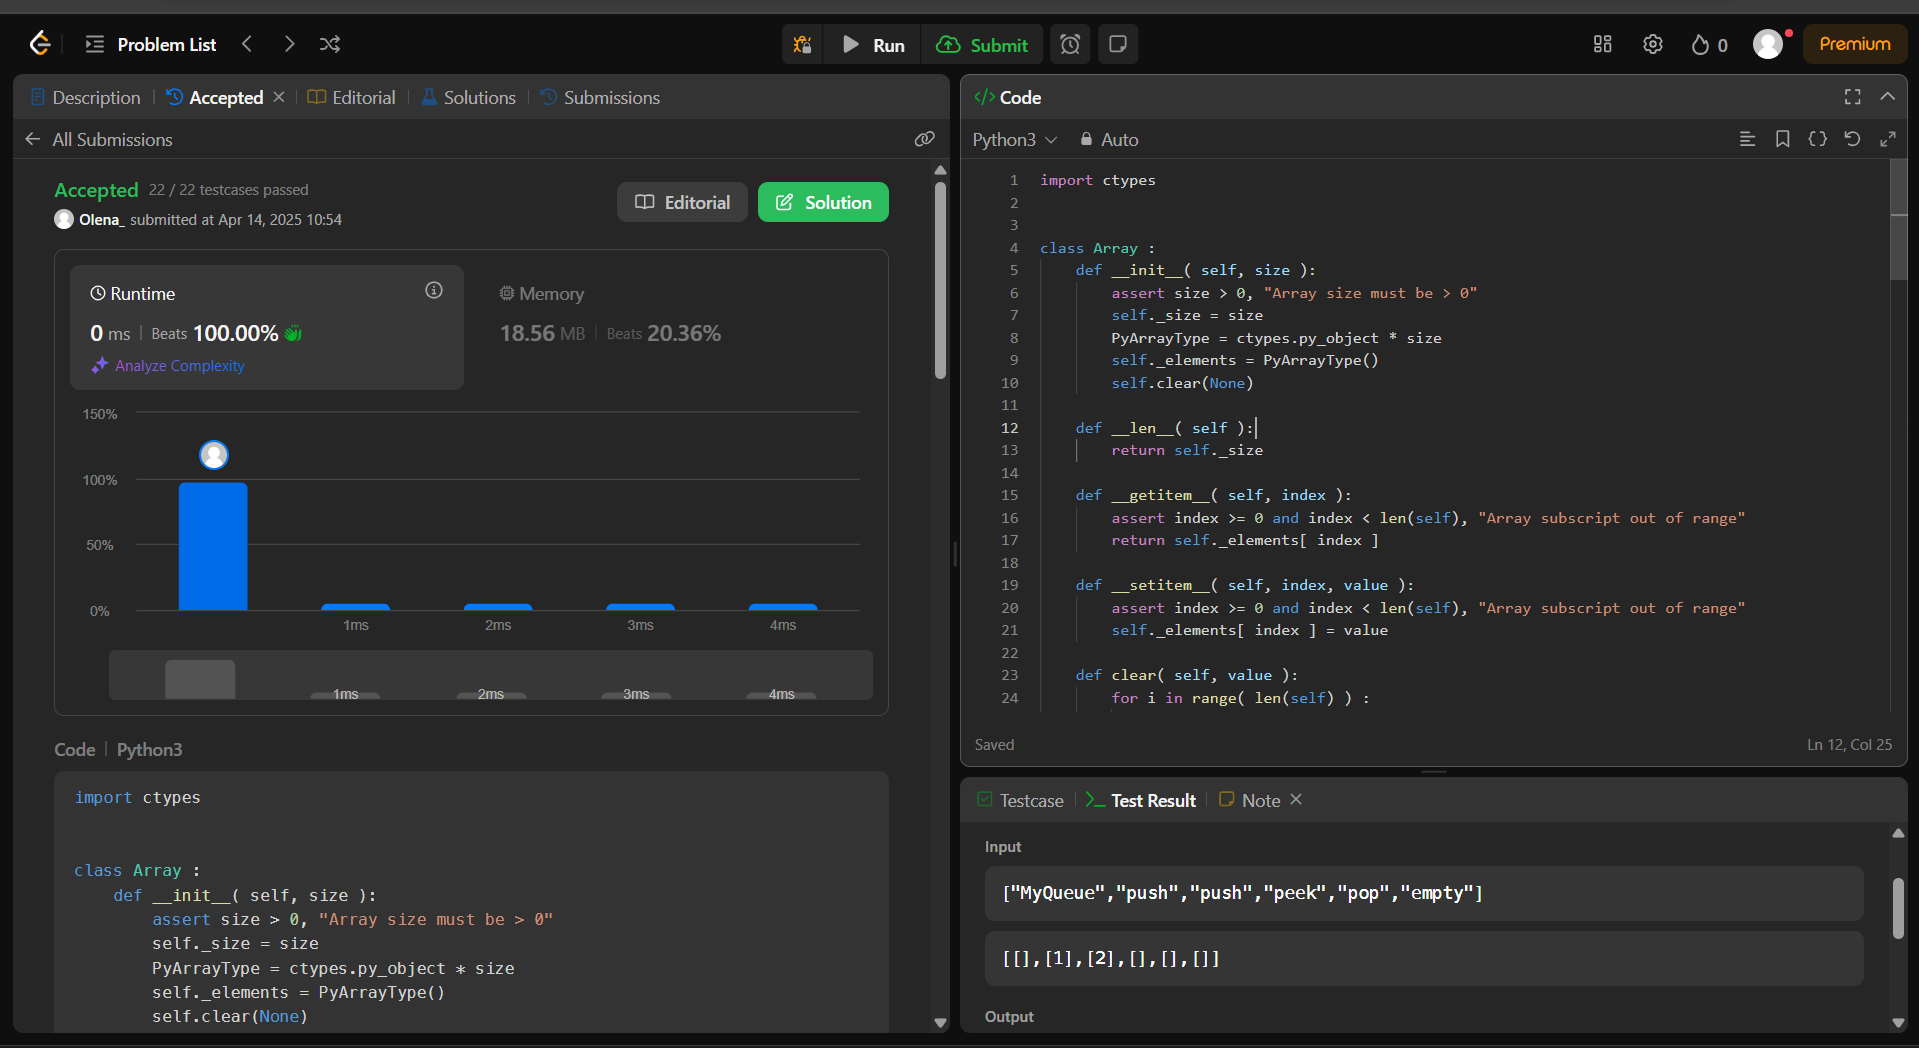
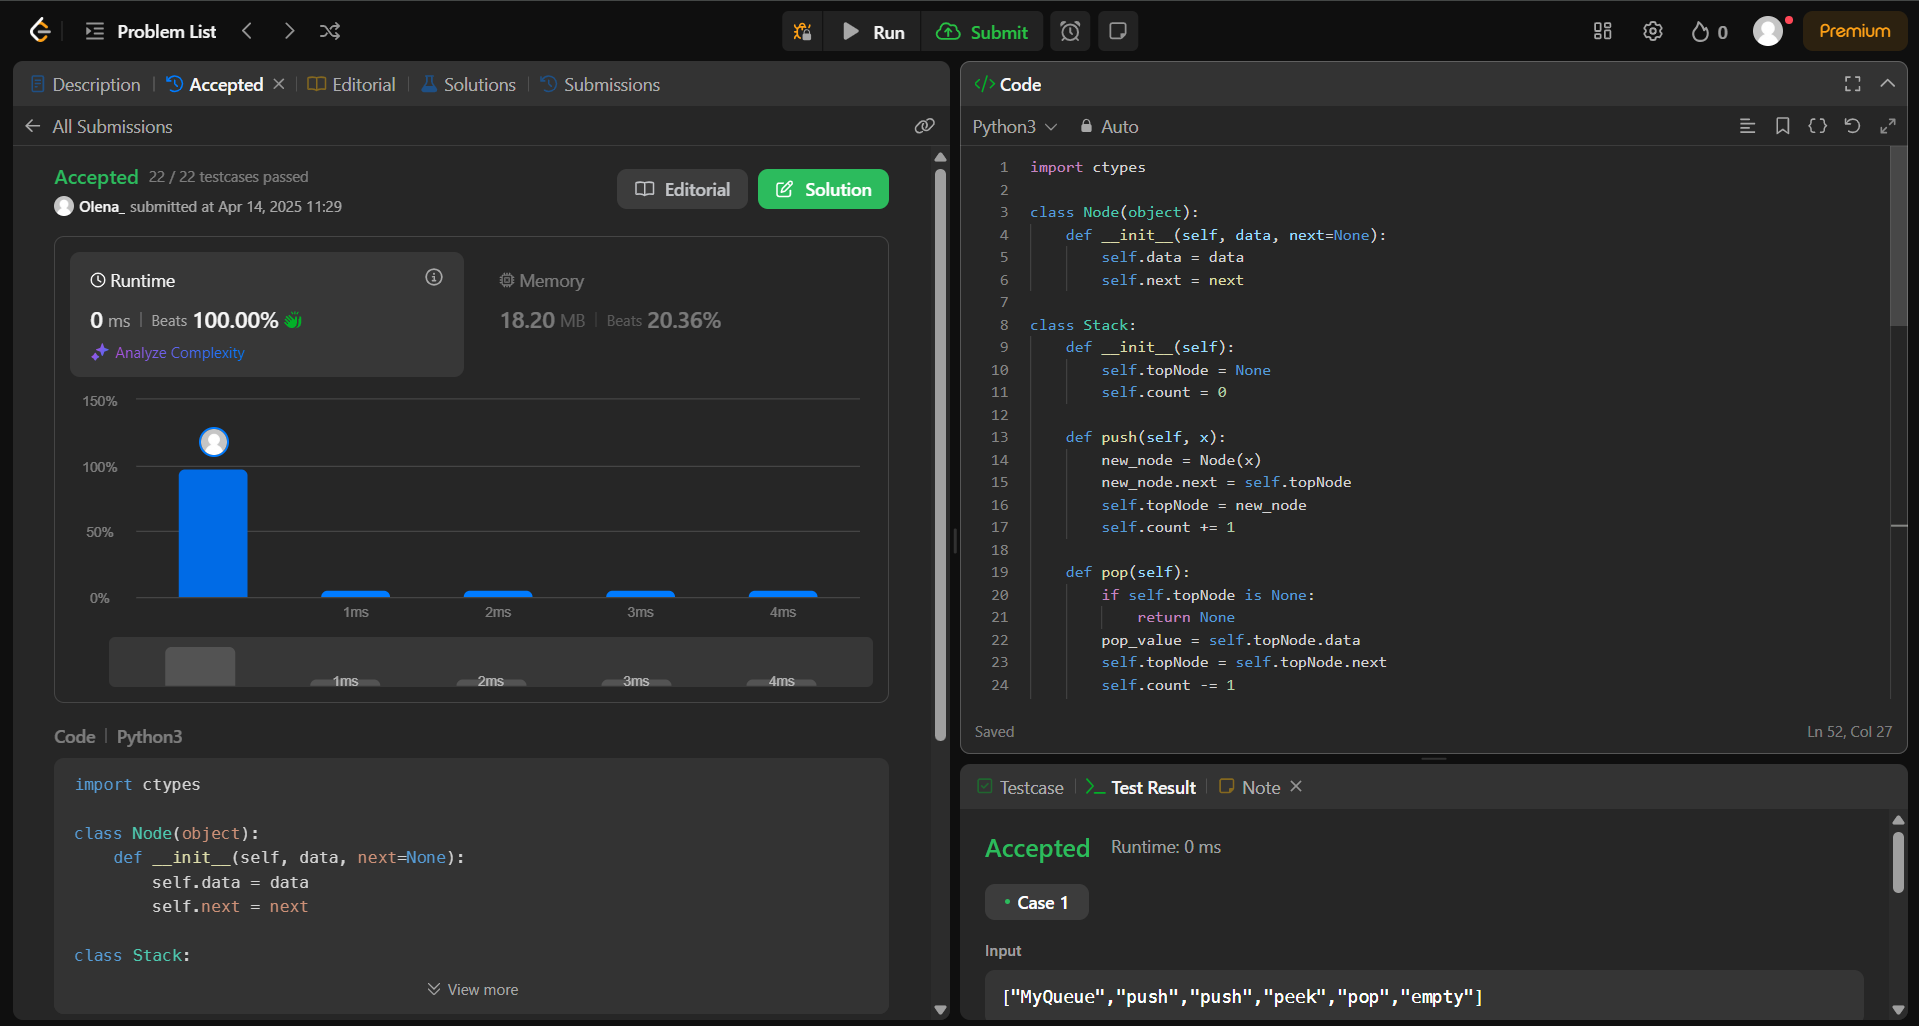
implement queue with linked lists

diff --git a/Implement Queue using Stacks/implementqueueusingstacks.py b/Implement Queue using Stacks/implementqueueusingstacks.py
@@ -1,80 +1,44 @@
 import ctypes
 
-class Array :
-    def __init__(self, size):
-        assert size > 0, "Array size must be > 0"
-        self._size = size
-        PyArrayType = ctypes.py_object * size
-        self._elements = PyArrayType()
-        self.clear(None)
-
-    def __len__( self ):
-        return self._size
-
-    def __getitem__( self, index ):
-        assert index >= 0 and index < len(self), "Array subscript out of range"
-        return self._elements[ index ]
-
-    def __setitem__( self, index, value ):
-        assert index >= 0 and index < len(self), "Array subscript out of range"
-        self._elements[ index ] = value
-
-    def clear( self, value ):
-        for i in range( len(self) ) :
-            self._elements[i] = value
-
-    def __iter__( self ):
-        return _ArrayIterator( self._elements )
-
-class _ArrayIterator :
-    def __init__( self, the_array ):
-        self._array_ref = the_array
-        self._cur_index = 0
-
-    def __iter__( self ):
-        return self
-
-    def __next__( self ):
-        if self._cur_index < len( self._array_ref ) :
-            entry = self._array_ref[ self._cur_index ]
-            self._cur_index += 1
-            return entry
-        else:
-            raise StopIteration
+class Node(object):
+    def __init__(self, data, next=None):
+        self.data = data
+        self.next = next
 
 class Stack:
-    def __init__(self, capacity):
-        self._data = Array(capacity)
-        self._capacity = capacity
-        self._top = -1
+    def __init__(self):
+        self.topNode = None
+        self.count = 0
 
-    def push(self, value):
-        assert self._top + 1 < self._capacity, "Stack overflow"
-        self._top += 1
-        self._data[self._top] = value
+    def push(self, x):
+        new_node = Node(x)
+        new_node.next = self.topNode
+        self.topNode = new_node
+        self.count += 1
 
     def pop(self):
-        assert self._top >= 0, "Stack underflow"
-        value = self._data[self._top]
-        self._data[self._top] = None
-        self._top -= 1
-        return value
+        if self.topNode is None:
+            return None
+        pop_value = self.topNode.data
+        self.topNode = self.topNode.next
+        self.count -= 1
+        return pop_value
 
     def peek(self):
-        assert self._top >= 0, "Stack is empty"
-        return self._data[self._top]
+        if self.topNode is None:
+            return None
+        return self.topNode.data
 
     def is_empty(self):
-        return self._top == -1
+        return self.topNode is None
 
     def size(self):
-        return self._top + 1
+        return self.count
 
 class MyQueue:
     def __init__(self):
-        capacity = 100
-        self.inStack = Stack(capacity)
-        self.outStack = Stack(capacity)
+        self.inStack = Stack()
+        self.outStack = Stack()
 
     def push(self, value: int) -> None:
         self.inStack.push(value)
